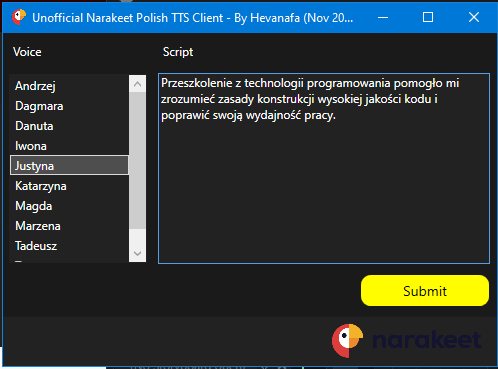
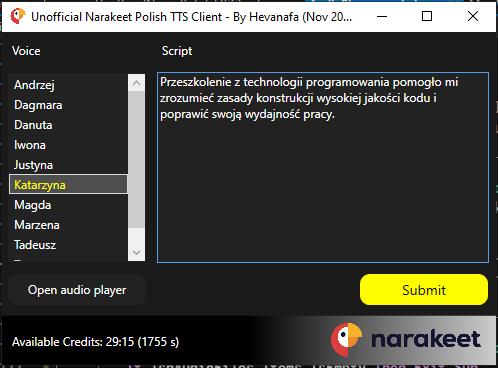
updated readme & the preview images

diff --git a/readme.md b/readme.md
@@ -1,6 +1,10 @@
 # Unofficial Narakeet Polish TTS Client
 
+An unofficial Narakeet TTS Client for Polish.
+
 ![Preview](./preview.png)
+
+![Audio player preview](./audio_player_preview.png)
 
 ## Requirements
 
